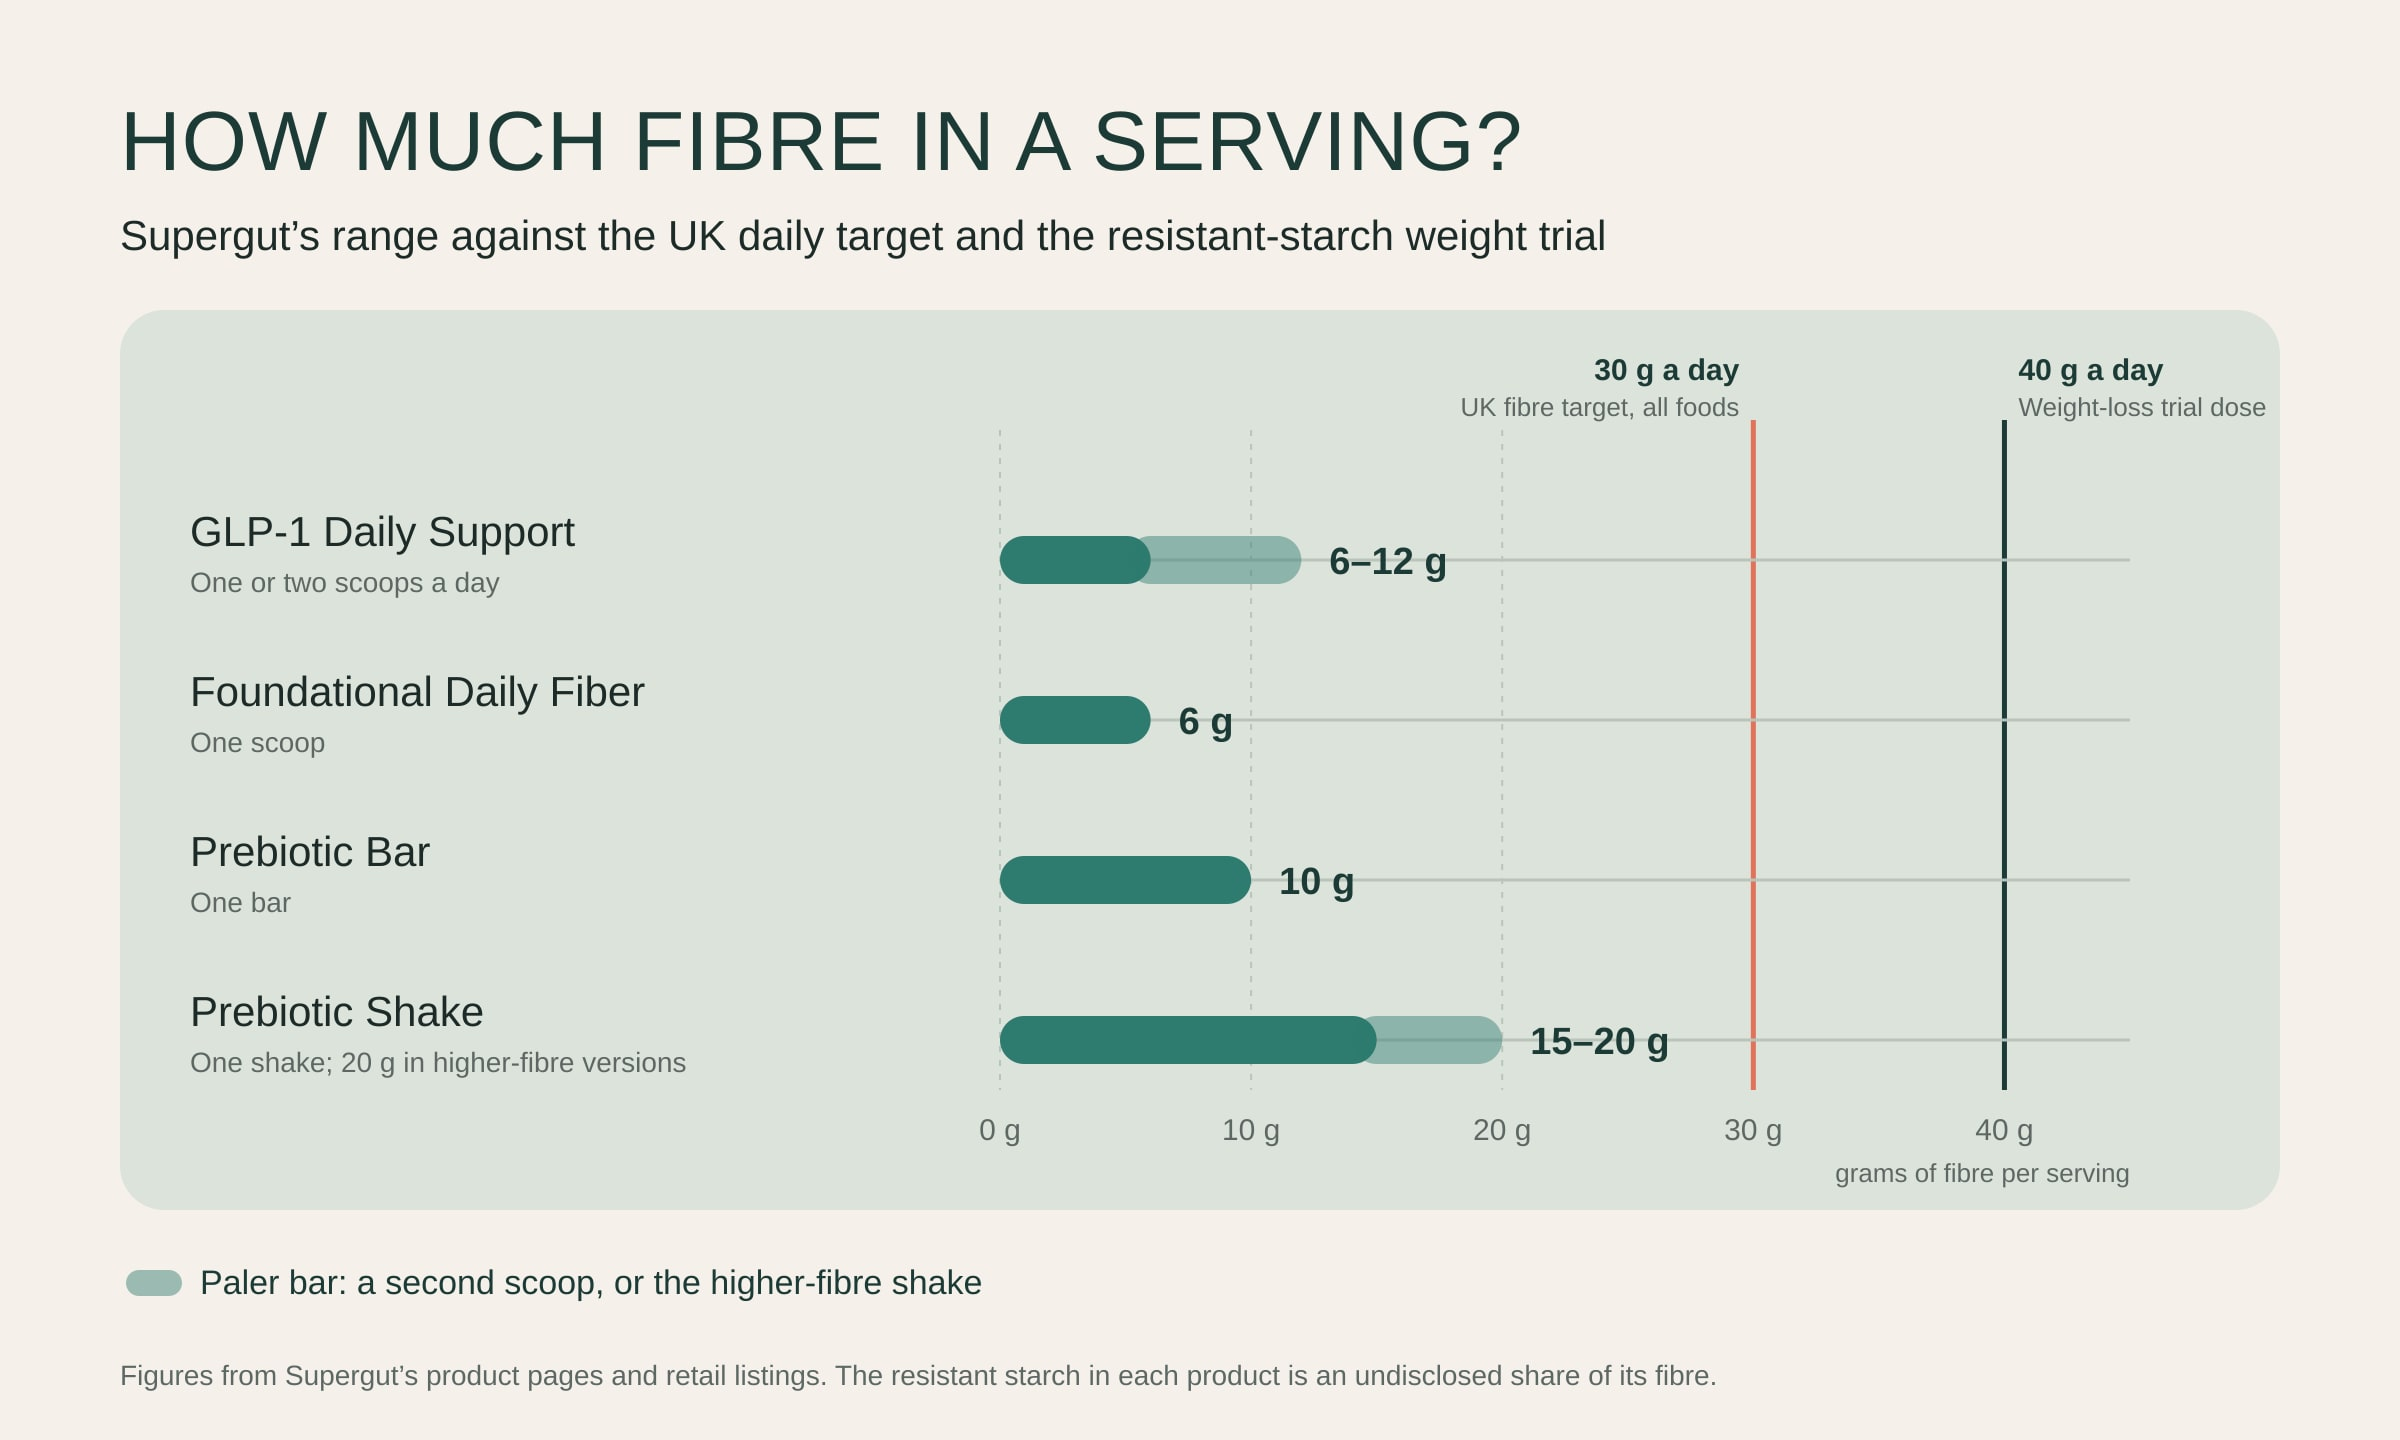
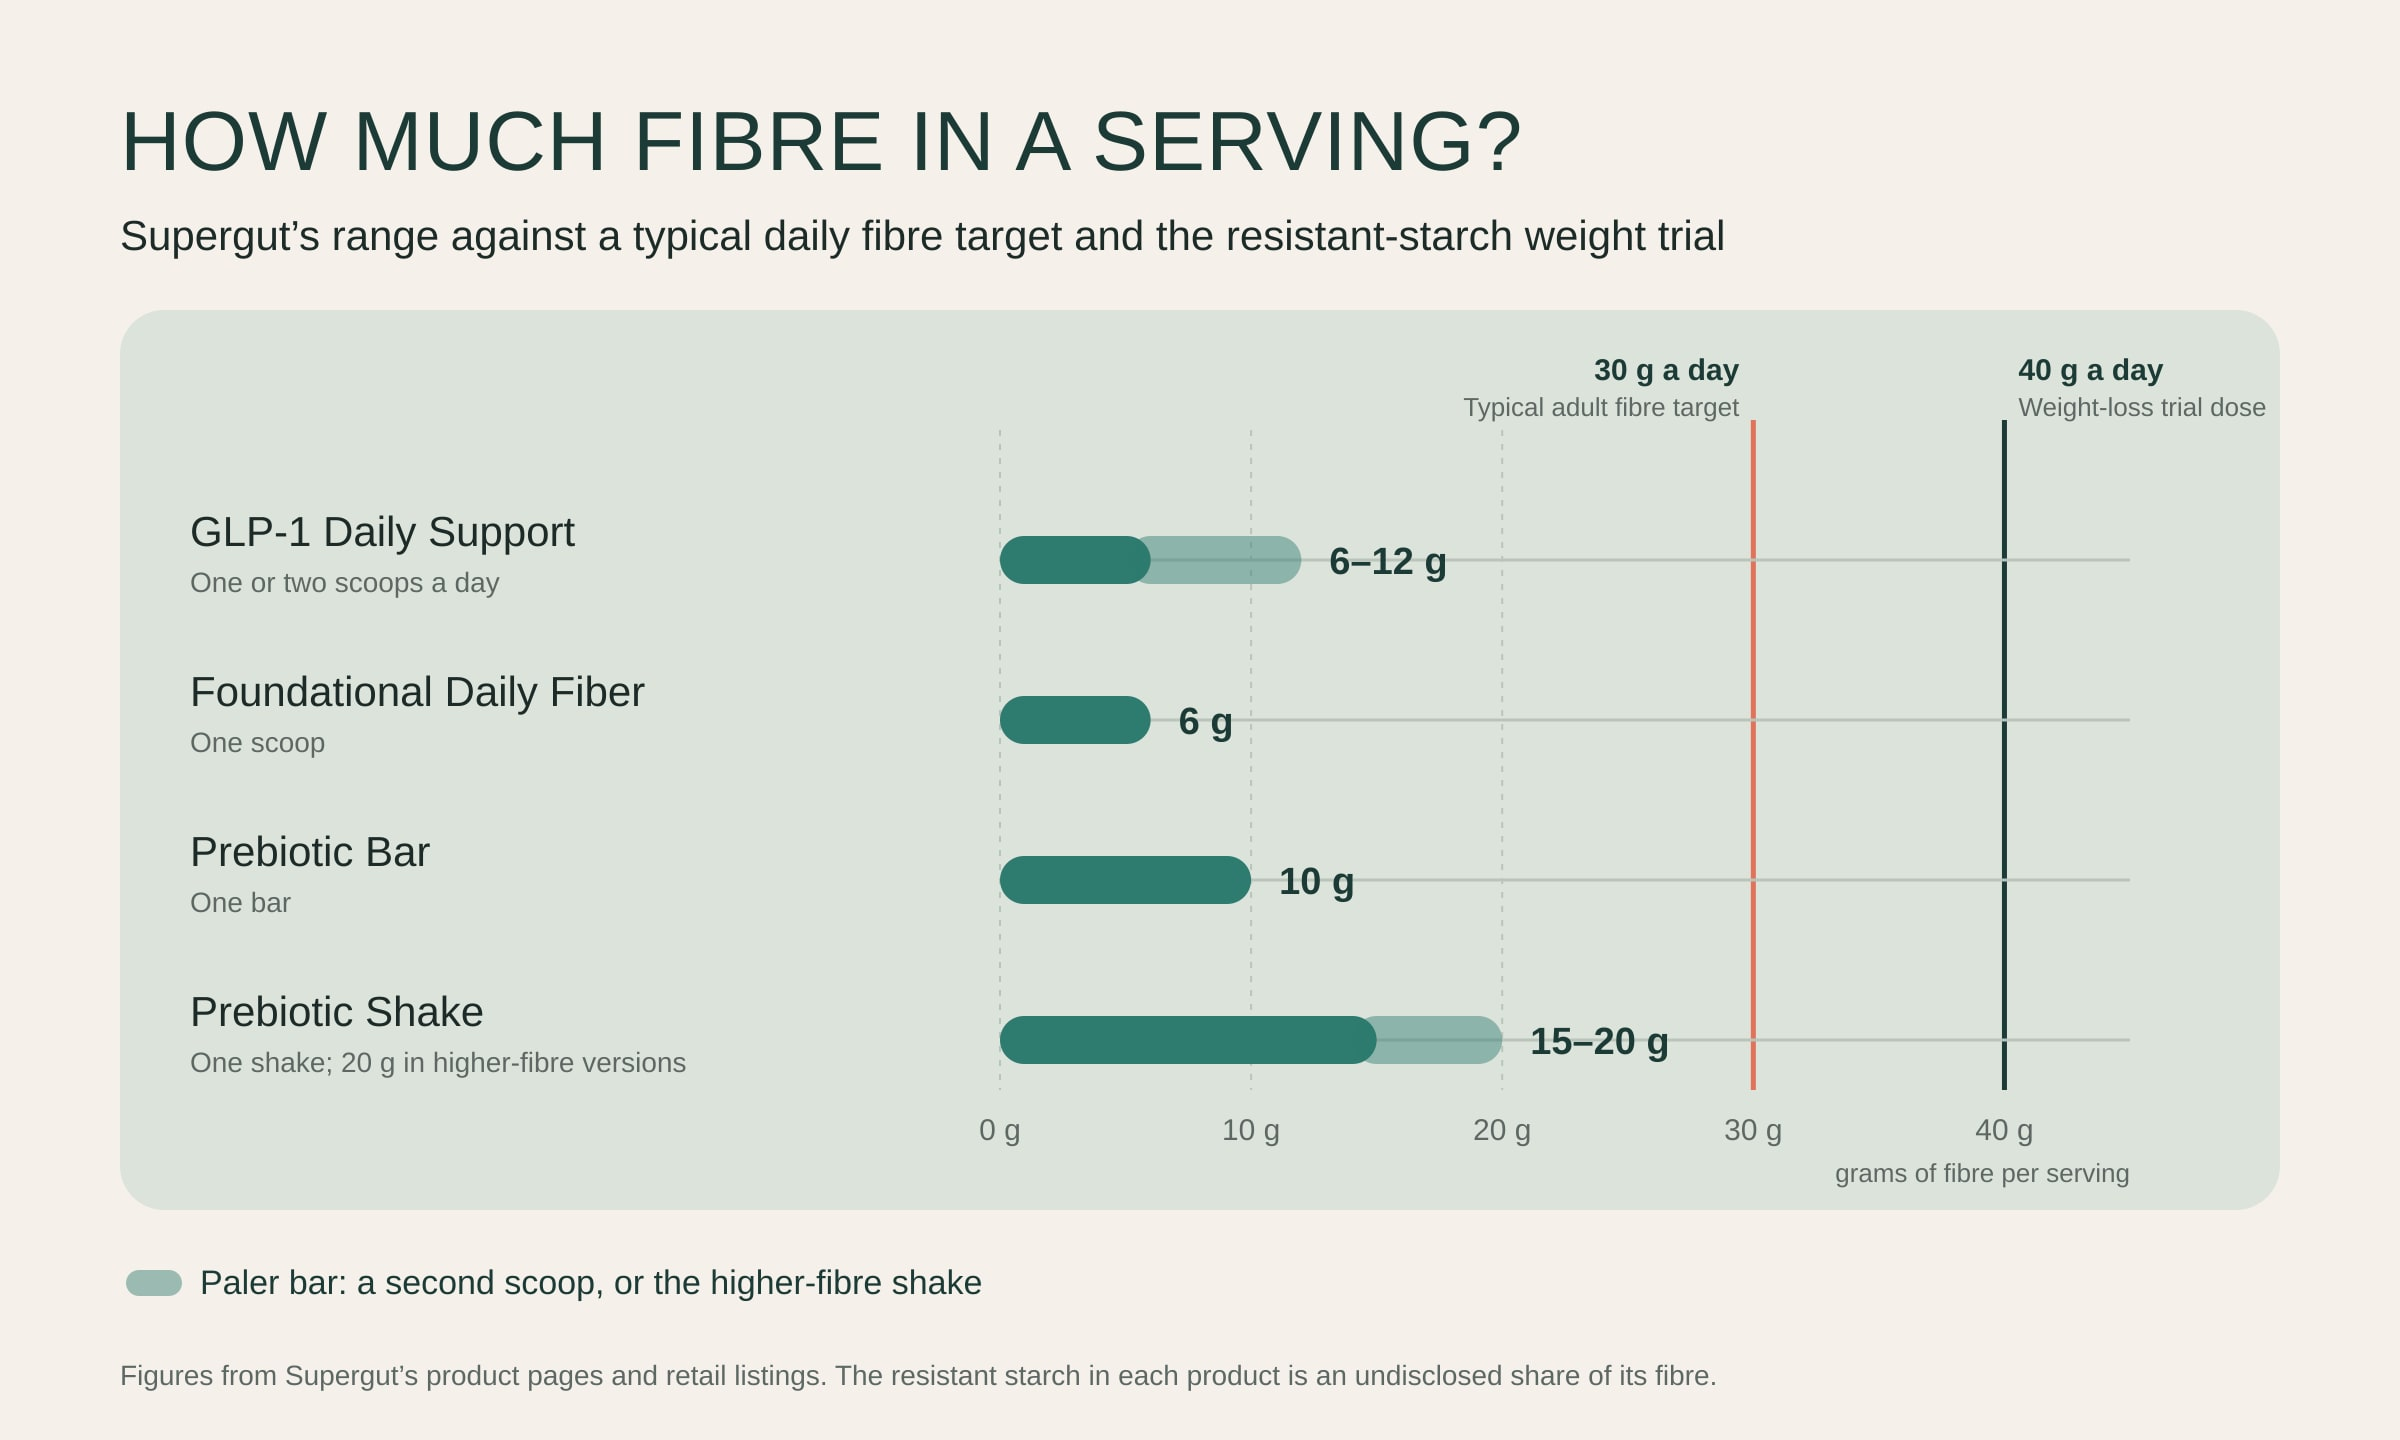
Make the Supergut pages global rather than UK-only
Supergut is sold worldwide, so the Foundational Daily Fiber review drops
'UK' from its SEO title and description, replaces the UK-only buying
notes with where the brand is sold in the US, how it ships abroad and an
example local stockist, quotes both NHS and US fibre guidance, and names
regulators generally. The guide chart's reference line now reads
'typical adult fibre target' instead of 'UK fibre target'.

Claude-Session: https://claude.ai/code/session_01GNfAdvi98BqUgxUV9FDB7E

Changed region(s): [[0.25, 0.1562, 0.7188, 0.1875], [0.625, 0.2812, 0.7188, 0.3125]]

diff --git a/lib/articles/supergut-foundational-daily-fiber-review.ts b/lib/articles/supergut-foundational-daily-fiber-review.ts
@@ -29,9 +29,9 @@ export const supergutFoundationalDailyFiberReview: ProductArticle = {
     // Fibre can slow the absorption of some medicines taken at the same time.
     'Safety and tolerability': 8,
   },
-  seoTitle: 'Supergut Foundational Daily Fiber: UK Review 2026',
+  seoTitle: 'Supergut Foundational Daily Fiber Review 2026',
   seoDescription:
-    'Supergut Foundational Daily Fiber reviewed: every flavour, what 6 g of four prebiotic fibres can do, the price per gram against GLP-1 Daily Support, and UK buying notes.',
+    'Supergut Foundational Daily Fiber reviewed: every flavour, what 6 g of four prebiotic fibres can do, the price per gram against GLP-1 Daily Support, and where to buy it.',
   listing: '40-serving tub, unflavoured; also flavoured tubs and stick packs',
   image: '/images/supergut-foundational-daily-fiber.webp',
   affiliateUrl: 'https://sharpandlean.com/recommended/supergut-foundational-daily-fiber',
@@ -61,7 +61,7 @@ export const supergutFoundationalDailyFiberReview: ProductArticle = {
 <h2>Our take: the Supergut we would actually buy</h2>
 <p>Foundational Daily Fiber is what Supergut sells when it is not selling GLP-1. It launched in September 2025 as the company’s everyday fibre powder, and its claims are modest: it promotes regularity, improves digestive health and supports a healthy gut microbiome. Those are claims the ingredients can plausibly meet.</p>
 <p>That makes it a better product than our <a href="/fat-burners/supergut-glp-1-booster-review">GLP-1 Daily Support review</a> found its sister to be. Both give 6 g of fibre a scoop, both are certified low-FODMAP, and on the prices we read, this one costs about $10 less a tub — without a hormone promise the dose cannot keep.</p>
-<p>The problems are the ones that run through the brand. The four fibres sit in one proprietary blend, so you cannot tell whether any of them reaches the dose its research used. And at around $0.21 to $0.25 per gram of fibre, before the cost of getting it to the UK, it is a premium way to buy something a bowl of oats or a spoon of psyllium also provides.</p>
+<p>The problems are the ones that run through the brand. The four fibres sit in one proprietary blend, so you cannot tell whether any of them reaches the dose its research used. And at around $0.21 to $0.25 per gram of fibre, before any cost of shipping it abroad, it is a premium way to buy something a bowl of oats or a spoon of psyllium also provides.</p>
 <p>This is a desk review. We have read the published label details, retailer listings and the research on the four fibres. Nobody on our team has used this product. We could not open Supergut’s product page while writing, so the next section says where each figure came from.</p>
 
 <h2>What exactly are you buying?</h2>
@@ -97,7 +97,7 @@ export const supergutFoundationalDailyFiberReview: ProductArticle = {
 <h3>The dose problem, again</h3>
 <p>The guar trial used 6 g of guar on its own. This scoop contains 6 g of fibre across four ingredients, so the guar is some fraction of that — we cannot tell how much. The same applies to Solnul. A second scoop helps, but the undisclosed blend means you are trusting the formulation rather than checking it.</p>
 <h3>Fibre itself is well supported</h3>
-<p>The case for more fibre does not depend on this product. A <a href="https://pubmed.ncbi.nlm.nih.gov/30638909/">2019 series of meta-analyses in <em>The Lancet</em></a> found people eating 25 to 29 g of fibre a day had lower rates of heart disease, stroke, type 2 diabetes and bowel cancer than those eating less. The <a href="https://www.nhs.uk/live-well/eat-well/digestive-health/how-to-get-more-fibre-into-your-diet/">NHS recommends 30 g a day</a>, and most adults fall well short. A 6 g scoop is a useful top-up; it is not a substitute for fibre-rich food.</p>
+<p>The case for more fibre does not depend on this product. A <a href="https://pubmed.ncbi.nlm.nih.gov/30638909/">2019 series of meta-analyses in <em>The Lancet</em></a> found people eating 25 to 29 g of fibre a day had lower rates of heart disease, stroke, type 2 diabetes and bowel cancer than those eating less. Guidance is similar around the world: the <a href="https://www.nhs.uk/live-well/eat-well/digestive-health/how-to-get-more-fibre-into-your-diet/">NHS recommends 30 g a day</a>, and US dietary guidelines advise about 14 g per 1,000 kcal, roughly 25 to 34 g for most adults. Most people fall well short. A 6 g scoop is a useful top-up; it is not a substitute for fibre-rich food.</p>
 <p>What this product does not claim, sensibly, is a GLP-1 or weight-loss effect. Our <a href="/guides/supergut">Supergut guide</a> covers why that claim does not hold up on the sister product.</p>
 
 <h2>Safety and tolerability</h2>
@@ -107,7 +107,7 @@ export const supergutFoundationalDailyFiberReview: ProductArticle = {
 <h2>Price: per gram of fibre</h2>
 <p>At $50 for 40 scoops of 6 g, the unflavoured tub works out at about $0.21 per gram of fibre, or $1.25 a scoop; at the $60 shown on another listing it is $0.25 a gram. The 20-serving canister at about $27 is roughly $0.23 a gram, flavoured tubs about $0.25, and the stick packs about $0.33.</p>
 <p>Against its sister product, it is the better buy: <a href="/fat-burners/supergut-glp-1-booster-review">GLP-1 Daily Support</a> cost $60 for 40 scoops of the same 6 g on the day we checked, $10 more for a name. Against plain fibre such as <a href="/fat-burners/now-psyllium-husk-powder">psyllium husk</a>, it is generally dearer per gram; compare on the day.</p>
-<p>For UK buyers, Supergut is a US brand priced in dollars. It says it ships to most countries with some restrictions, and we did not find it stocked by UK retailers. Add international postage and possible import charges before comparing it with UK fibre products. We read these prices from listings rather than taking an order through checkout.</p>
+<p>Supergut is sold across the US — on its own store, Amazon.com and at retailers including Walmart, Target, GNC and Vitamin Shoppe. Outside the US, its help centre says it ships to most countries with some products restricted, and some local retailers stock part of the range — Healf in the UK, for example. If you are ordering from abroad, add international postage and any import charges to the dollar price before comparing it with fibre products sold where you live. We read these prices from listings rather than taking an order through checkout.</p>
 
 <h2>Best alternatives</h2>
 <p>The ones we have fully reviewed are linked, and appear in the comparison cards below this article. The others we name for comparison only: we have not reviewed them in full, so do not read their inclusion as a recommendation.</p>
@@ -120,15 +120,15 @@ export const supergutFoundationalDailyFiberReview: ProductArticle = {
 
 <h2>Who should skip it</h2>
 <p>Skip it if you already eat plenty of fibre, if you want the cheapest possible fibre supplement, or if you want a product with individual doses you can check. Anyone on regular medication should check spacing with a pharmacist first.</p>
-<p>Food supplements sold in Great Britain are not approved by a regulator for safety or effectiveness before sale, so the label is the manufacturer’s responsibility rather than a regulator’s endorsement.</p>
+<p>Dietary supplements are not approved for safety or effectiveness before sale by regulators such as the US FDA or UK authorities, so the label is the manufacturer’s responsibility rather than a regulator’s endorsement.</p>
 
 <h2>Sources and shopping: our checklist</h2>
-<p>Before you order, choose unflavoured for the lowest price per gram, work out the delivered cost to the UK, and compare it per gram of fibre with a plain fibre supplement. Start with half a scoop and judge it over three or four weeks: regularity, comfort and how full you feel.</p>
+<p>Before you order, choose unflavoured for the lowest price per gram, work out the delivered cost where you live, and compare it per gram of fibre with a plain fibre supplement. Start with half a scoop and judge it over three or four weeks: regularity, comfort and how full you feel.</p>
 <p>Our commercial link for this product is <a href="https://sharpandlean.com/recommended/supergut-foundational-daily-fiber">our Supergut Foundational Daily Fiber link</a>. It earns us a commission at no extra cost to you, and it has no influence on the score above — which is a 5.4, well ahead of GLP-1 Daily Support’s 3.8, held back by an undisclosed blend, doses we cannot check and a price per gram above plain fibre.</p>
 <p>The fair summary is this. Foundational Daily Fiber is Supergut without the hype: gentle, low-FODMAP fibre with honest claims. If you want Supergut, this is the one to buy. If you just want more fibre, there are cheaper ways to get it.</p>
 `,
   whoFor:
-    'An adult who wants a gentle, low-FODMAP fibre powder for regularity and gut comfort — particularly someone with IBS who reacts badly to inulin — and is happy to pay a brand price and import costs for the format.',
+    'An adult who wants a gentle, low-FODMAP fibre powder for regularity and gut comfort — particularly someone with IBS who reacts badly to inulin — and is happy to pay a brand price for the format.',
   whoAvoid:
     'Anyone who already eats plenty of fibre, or wants the cheapest fibre per gram. Anyone who wants to check individual ingredient doses. Anyone on regular medication until they have checked spacing with a pharmacist.',
   pros: [
@@ -142,7 +142,7 @@ export const supergutFoundationalDailyFiberReview: ProductArticle = {
     'All four fibres sit in one proprietary blend with no individual amounts',
     'The guar trial used 6 g of guar alone; here four fibres share 6 g',
     'About $0.21 to $0.33 per gram of fibre depending on the format, above plain fibre',
-    'A US brand: UK buyers pay postage and possible import charges',
+    'Priced in US dollars; buyers outside the US may pay postage and import charges',
     'No published certificate of analysis for the “third-party tested” claim',
   ],
   ingredients: [
@@ -193,9 +193,9 @@ export const supergutFoundationalDailyFiberReview: ProductArticle = {
         'It may suit people with IBS better than many fibres, because it is certified low-FODMAP and includes partially hydrolysed guar gum, which improved bloating in a 2016 IBS trial. The amount of guar per scoop is not disclosed. Start with half a scoop and talk to your GP about persistent symptoms.',
     },
     {
-      question: 'Can I buy it in the UK?',
+      question: 'Where can I buy it?',
       answer:
-        'Supergut is a US brand. It says it ships to most countries with some restrictions, and we did not find it at UK retailers. Expect international postage and possible import charges, and compare the delivered price per gram of fibre with UK fibre supplements.',
+        'In the US, on Supergut’s store, Amazon.com and at retailers including Walmart. Outside the US, Supergut says it ships to most countries with some restrictions, and some local retailers stock parts of the range. Add postage and import charges, and compare the delivered price per gram of fibre with fibre sold locally.',
     },
   ],
   references: [
